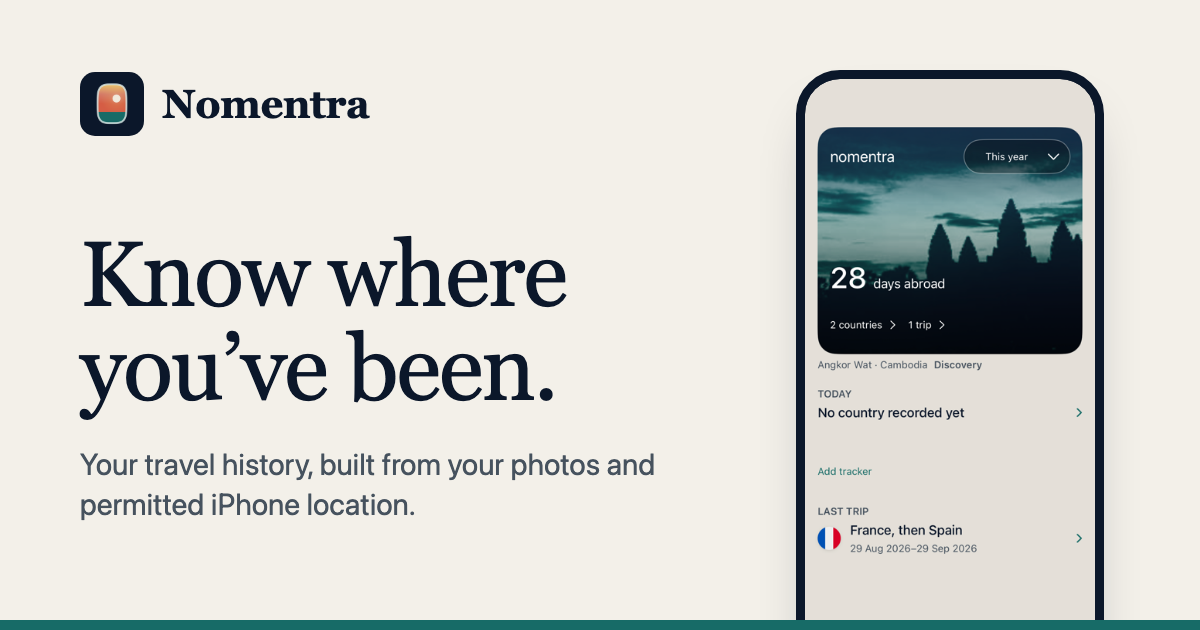
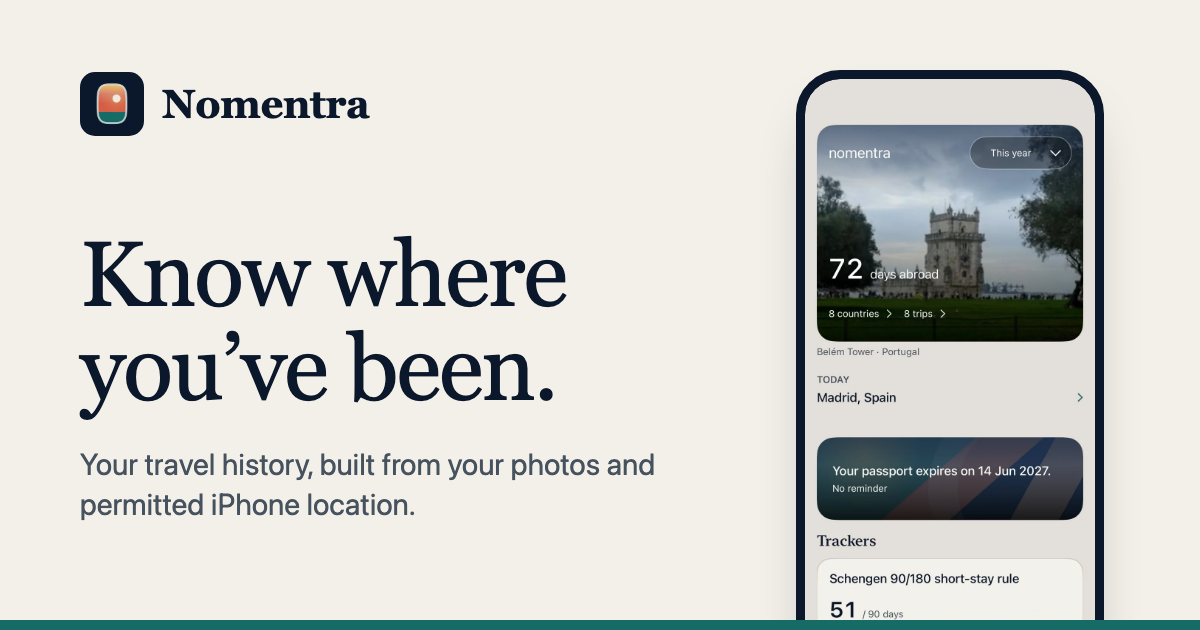
Replace homepage captures with full-data app screens
Home, Status and Travel rendered at 3x from the app with synthetic data:
trips across eight countries, a Schengen tracker, personal trackers and a
passport deadline. Sharing image regenerated.

diff --git a/style.css b/style.css
@@ -60,17 +60,18 @@ p:last-child{margin-bottom:0}
 .site-nav a[aria-current="page"]{text-decoration:underline;text-underline-offset:6px;text-decoration-color:var(--teal);text-decoration-thickness:2px}
 
 /* Home — hero */
-.hero{display:grid;gap:40px;padding-top:28px;padding-bottom:64px;align-items:center}
+.hero{display:grid;gap:44px;padding-top:28px;padding-bottom:64px}
 .status{display:inline-flex;align-items:center;gap:8px;margin:0 0 20px;padding:6px 12px 6px 10px;border:1px solid var(--line);border-radius:999px;font-size:14px;font-weight:600;color:var(--ink)}
 .status::before{content:"";width:8px;height:8px;border-radius:50%;background:var(--teal)}
 .hero h1{font-size:clamp(42px,9.5vw,72px);line-height:1.04;font-weight:500;letter-spacing:-.02em;margin-bottom:20px}
 .lede{font-size:clamp(19px,2.4vw,22px);line-height:1.45;color:var(--ink-2);max-width:31em;margin:0}
 
 .phones{margin:0;display:flex;flex-direction:column;align-items:center}
-.phones-row{display:flex;justify-content:center;align-items:flex-start;gap:14px}
-.phone{flex:0 1 232px;min-width:0;border:7px solid var(--bezel);border-radius:34px;overflow:hidden;background:var(--bezel);box-shadow:var(--shadow)}
-.phone img{width:100%;aspect-ratio:375/812;border-radius:27px}
+.phones-row{display:flex;justify-content:center;align-items:flex-start;gap:14px;width:100%}
+.phone{flex:0 1 272px;min-width:0;border:7px solid var(--bezel);border-radius:34px;overflow:hidden;background:var(--bezel);box-shadow:var(--shadow)}
+.phone img{width:100%;aspect-ratio:786/1704;border-radius:27px}
 .phone:nth-child(2){margin-top:36px}
+.phone:nth-child(3){display:none}
 .phones figcaption{margin-top:18px;font-size:13px;color:var(--ink-2);text-align:center}
 
 /* Home — benefits */
@@ -110,12 +111,18 @@ p:last-child{margin-bottom:0}
 .site-foot nav{display:flex;gap:4px;margin-left:-10px}
 .site-foot a{color:var(--ink-2);padding:10px;border-radius:8px}
 .site-foot a:hover{color:var(--ink)}
-.site-foot span a{padding:10px 0}
+.site-foot span a{display:inline-block;padding:12px 0}
 
+@media (min-width:640px){
+  .phone:nth-child(3){display:block}
+  .phones-row{gap:20px}
+}
 @media (min-width:860px){
   .site-head{padding-top:32px;padding-bottom:32px}
-  .hero{grid-template-columns:minmax(0,1.05fr) minmax(0,1fr);gap:48px;padding-top:48px;padding-bottom:96px}
-  .phones-row{gap:18px}
+  .hero{gap:64px;padding-top:48px;padding-bottom:96px}
+  .phones-row{gap:36px}
+  .phone{border-width:8px;border-radius:40px}
+  .phone img{border-radius:32px}
   .benefits{padding-top:72px;padding-bottom:72px}
   .benefit-grid{grid-template-columns:repeat(3,minmax(0,1fr));gap:40px}
   .beta{padding-top:72px;padding-bottom:88px}

diff --git a/index.html b/index.html
@@ -43,10 +43,11 @@
     </div>
     <figure class="phones">
       <div class="phones-row">
-        <div class="phone"><img src="assets/app-home.png" width="375" height="812" alt="Nomentra’s Home screen showing 28 days abroad this year across 2 countries and 1 trip, with the last trip listed as France, then Spain."></div>
-        <div class="phone"><img src="assets/app-travel.png" width="375" height="812" alt="Nomentra’s Travel screen showing 2026 month by month, with 3 days in France in August and 25 days in France and Spain in September."></div>
+        <div class="phone"><img src="assets/app-home.webp" width="786" height="1704" alt="Nomentra’s Home screen: 72 days abroad this year across 8 countries and 8 trips, today in Madrid, Spain, a passport expiry date, and a Schengen tracker at 51 of 90 days."></div>
+        <div class="phone"><img src="assets/app-status.webp" width="786" height="1704" alt="Nomentra’s Status screen with trackers: 51 of 90 Schengen days used with 39 remaining, and 72 days abroad this year."></div>
+        <div class="phone"><img src="assets/app-travel.webp" width="786" height="1704" alt="Nomentra’s Travel screen showing 2026 month by month, with country flags and days abroad for each month from January to September."></div>
       </div>
-      <figcaption>Home and Travel in Nomentra, shown with sample data.</figcaption>
+      <figcaption>Nomentra, shown with sample data.</figcaption>
     </figure>
   </div>
 

diff --git a/README.md b/README.md
@@ -9,14 +9,14 @@ Static website for Nomentra: plain HTML and one stylesheet. No build step, no sc
 | `support/index.html` | Support — https://nomentra.app/support |
 | `404.html` | Not-found page (served by GitHub Pages) |
 | `style.css` | Shared style. Colours are the app's Phase B tokens from `Nomentra/DesignSystem/DesignSystemColorTokens.swift`; type is system serif (New York) for titles and system sans (SF Pro) for text |
-| `assets/` | App icon sizes, the sharing image (`og.png`) and two app captures |
+| `assets/` | App icon sizes, the sharing image (`og.png`) and three app captures |
 | `favicon.ico`, `favicon-32.png`, `apple-touch-icon.png` | Icons, made from the app's `AppIcon-Light-1024.png` |
 | `CNAME`, `.nojekyll`, `robots.txt` | GitHub Pages custom domain, no Jekyll processing, allow indexing |
 
 ## Sources
 
-- **App captures** (`assets/app-home.png`, `assets/app-travel.png`): real app renders with the test suite's synthetic history (France, then Spain), copied from `Nomentra-clean/outputs/verification/bugs-163-176/final-captures/`. No personal data. They are 375 × 812 px; replace them with 3× captures of the same screens when available.
-- **Privacy Policy**: written from the app source on `main` at `f0210f43` (1 October 2026), Feature PRD 13 and WEB-01/02 in `docs/plan/settings-release-simplification.md`. Re-check it whenever the app's data practices change, and change the “Last updated” date.
+- **App captures** (`assets/app-home.webp`, `app-status.webp`, `app-travel.webp`): real renders of the app at commit `0c760521`, mounted by a throwaway capture test with synthetic data only (a UK traveller, eight trips in 2026, a Schengen tracker, two personal trackers and a passport deadline). No personal data. Full-size originals and `notes.md` are in `/Users/ossianhouse/APP Dev/nomentra-site-captures/`.
+- **Privacy Policy**: written from the app source on `main` at `f0210f43` (1 October 2026), approved wording in `docs/PRD_wording.md`, Feature PRD 13 and WEB-01/02 in `docs/plan/settings-release-simplification.md`. Re-check it whenever the app's data practices change, and change the “Last updated” date.
 - **Send feedback** is described in the policy as approved for the release (Feature 13, SET-05); it was not yet in the app source at `f0210f43`.
 
 ## Preview locally
@@ -29,7 +29,7 @@ Then open http://127.0.0.1:8765/.
 
 ## Publication (not done yet — needs the owner's approval)
 
-Status on 1 October 2026: this folder is a local git repository only. No GitHub repository exists at `ossianhouse/nomentra-site`, and https://nomentra.app still serves the Squarespace “under construction” page.
+Status on 1 October 2026: the public repository `ossianhouse/nomentra-site` exists and is empty; nothing has been pushed. https://nomentra.app still serves the Squarespace “under construction” page.
 
 1. Create or confirm the GitHub repository and push `main`.
 2. Repository **Settings → Pages**: source = branch `main`, folder `/ (root)`; custom domain `nomentra.app`.
